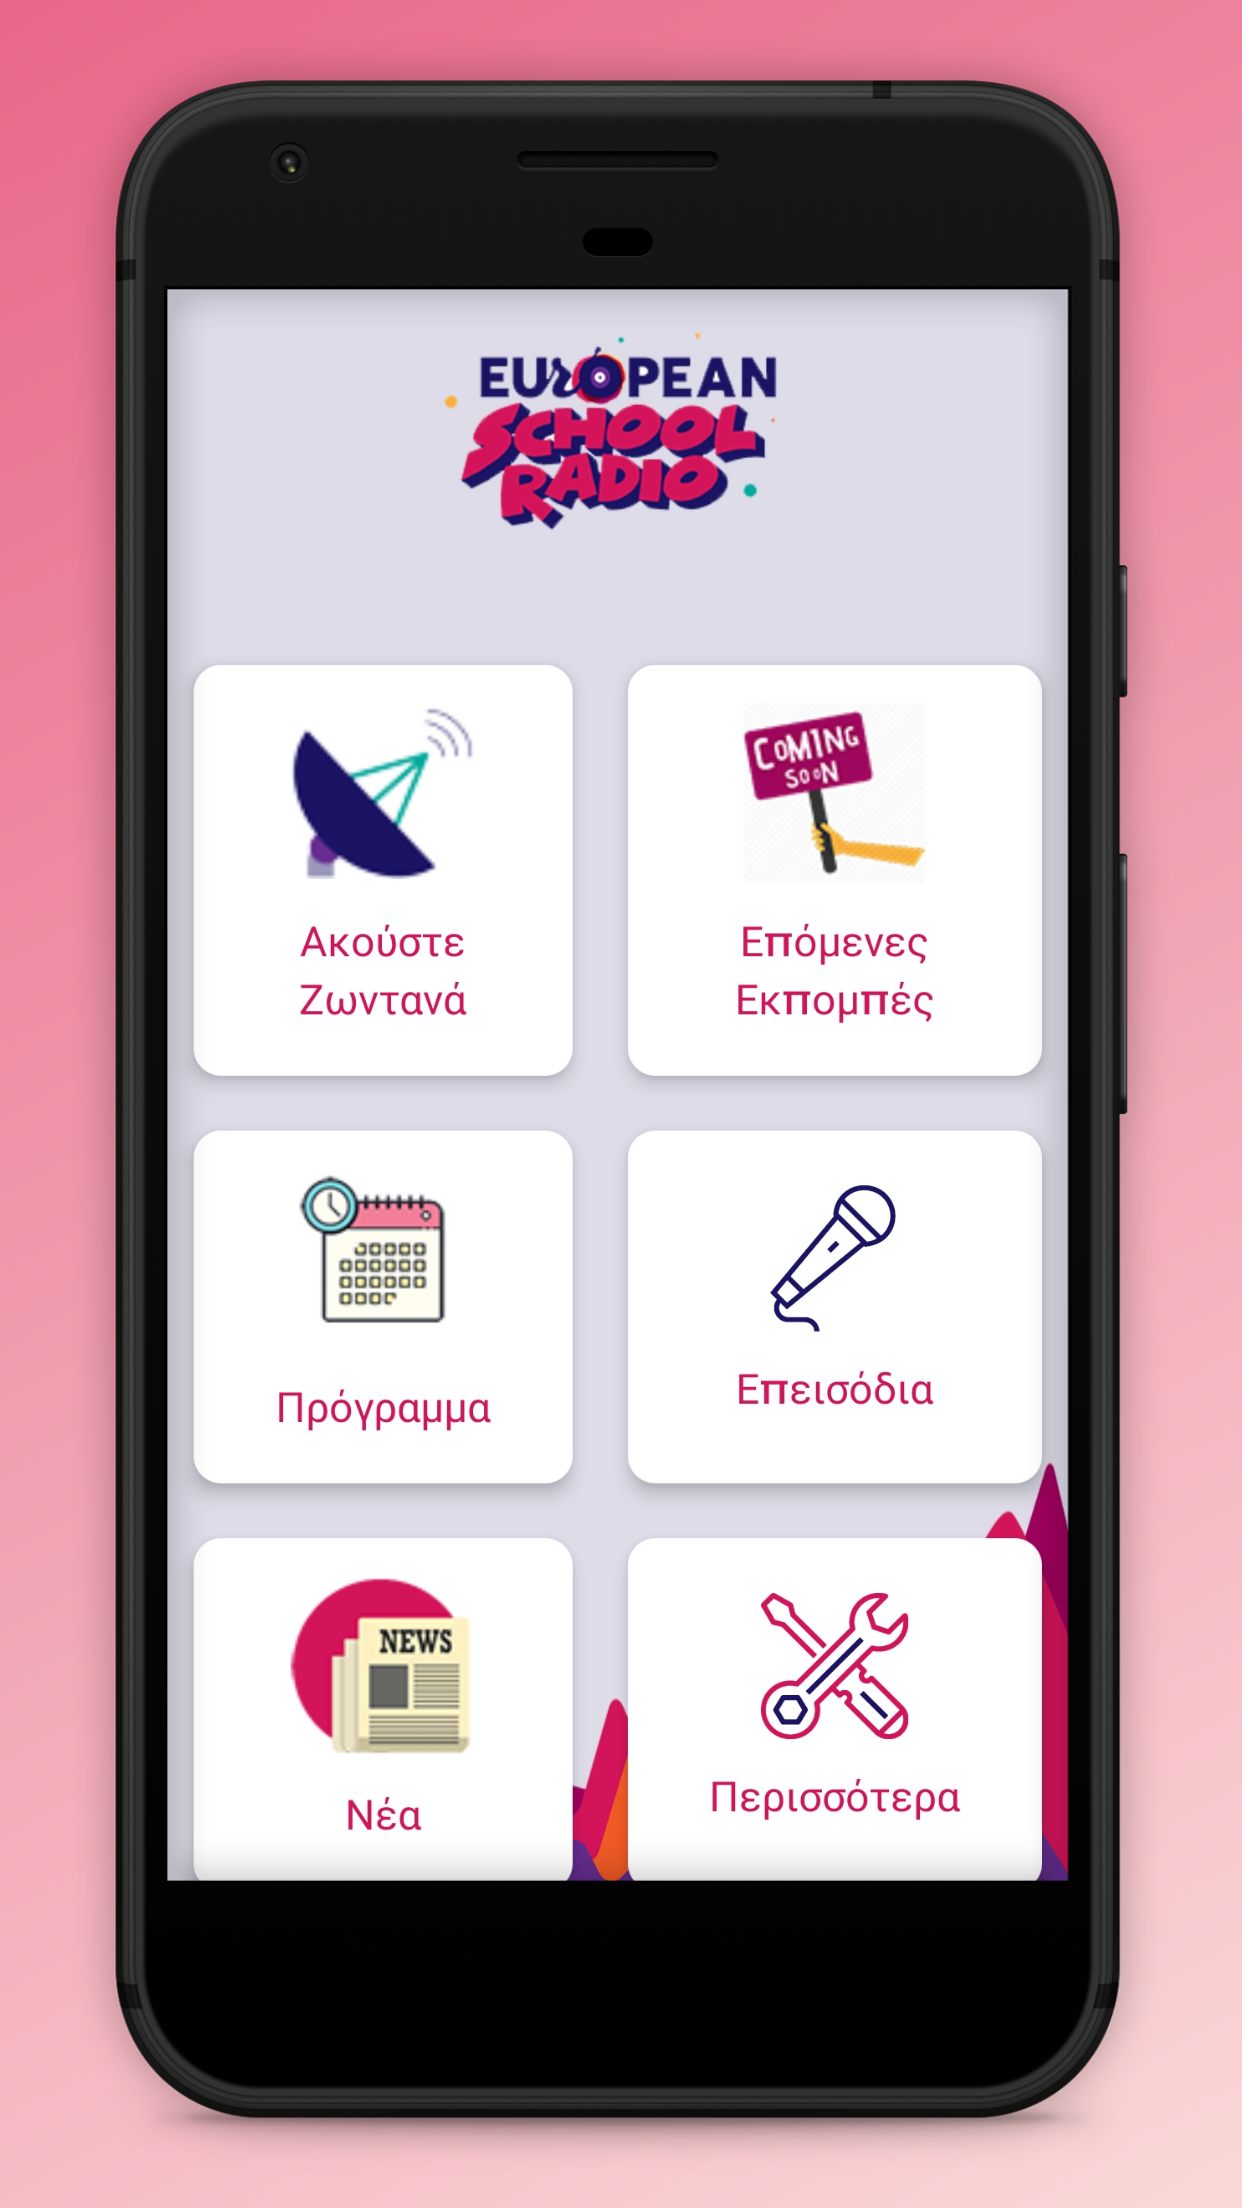
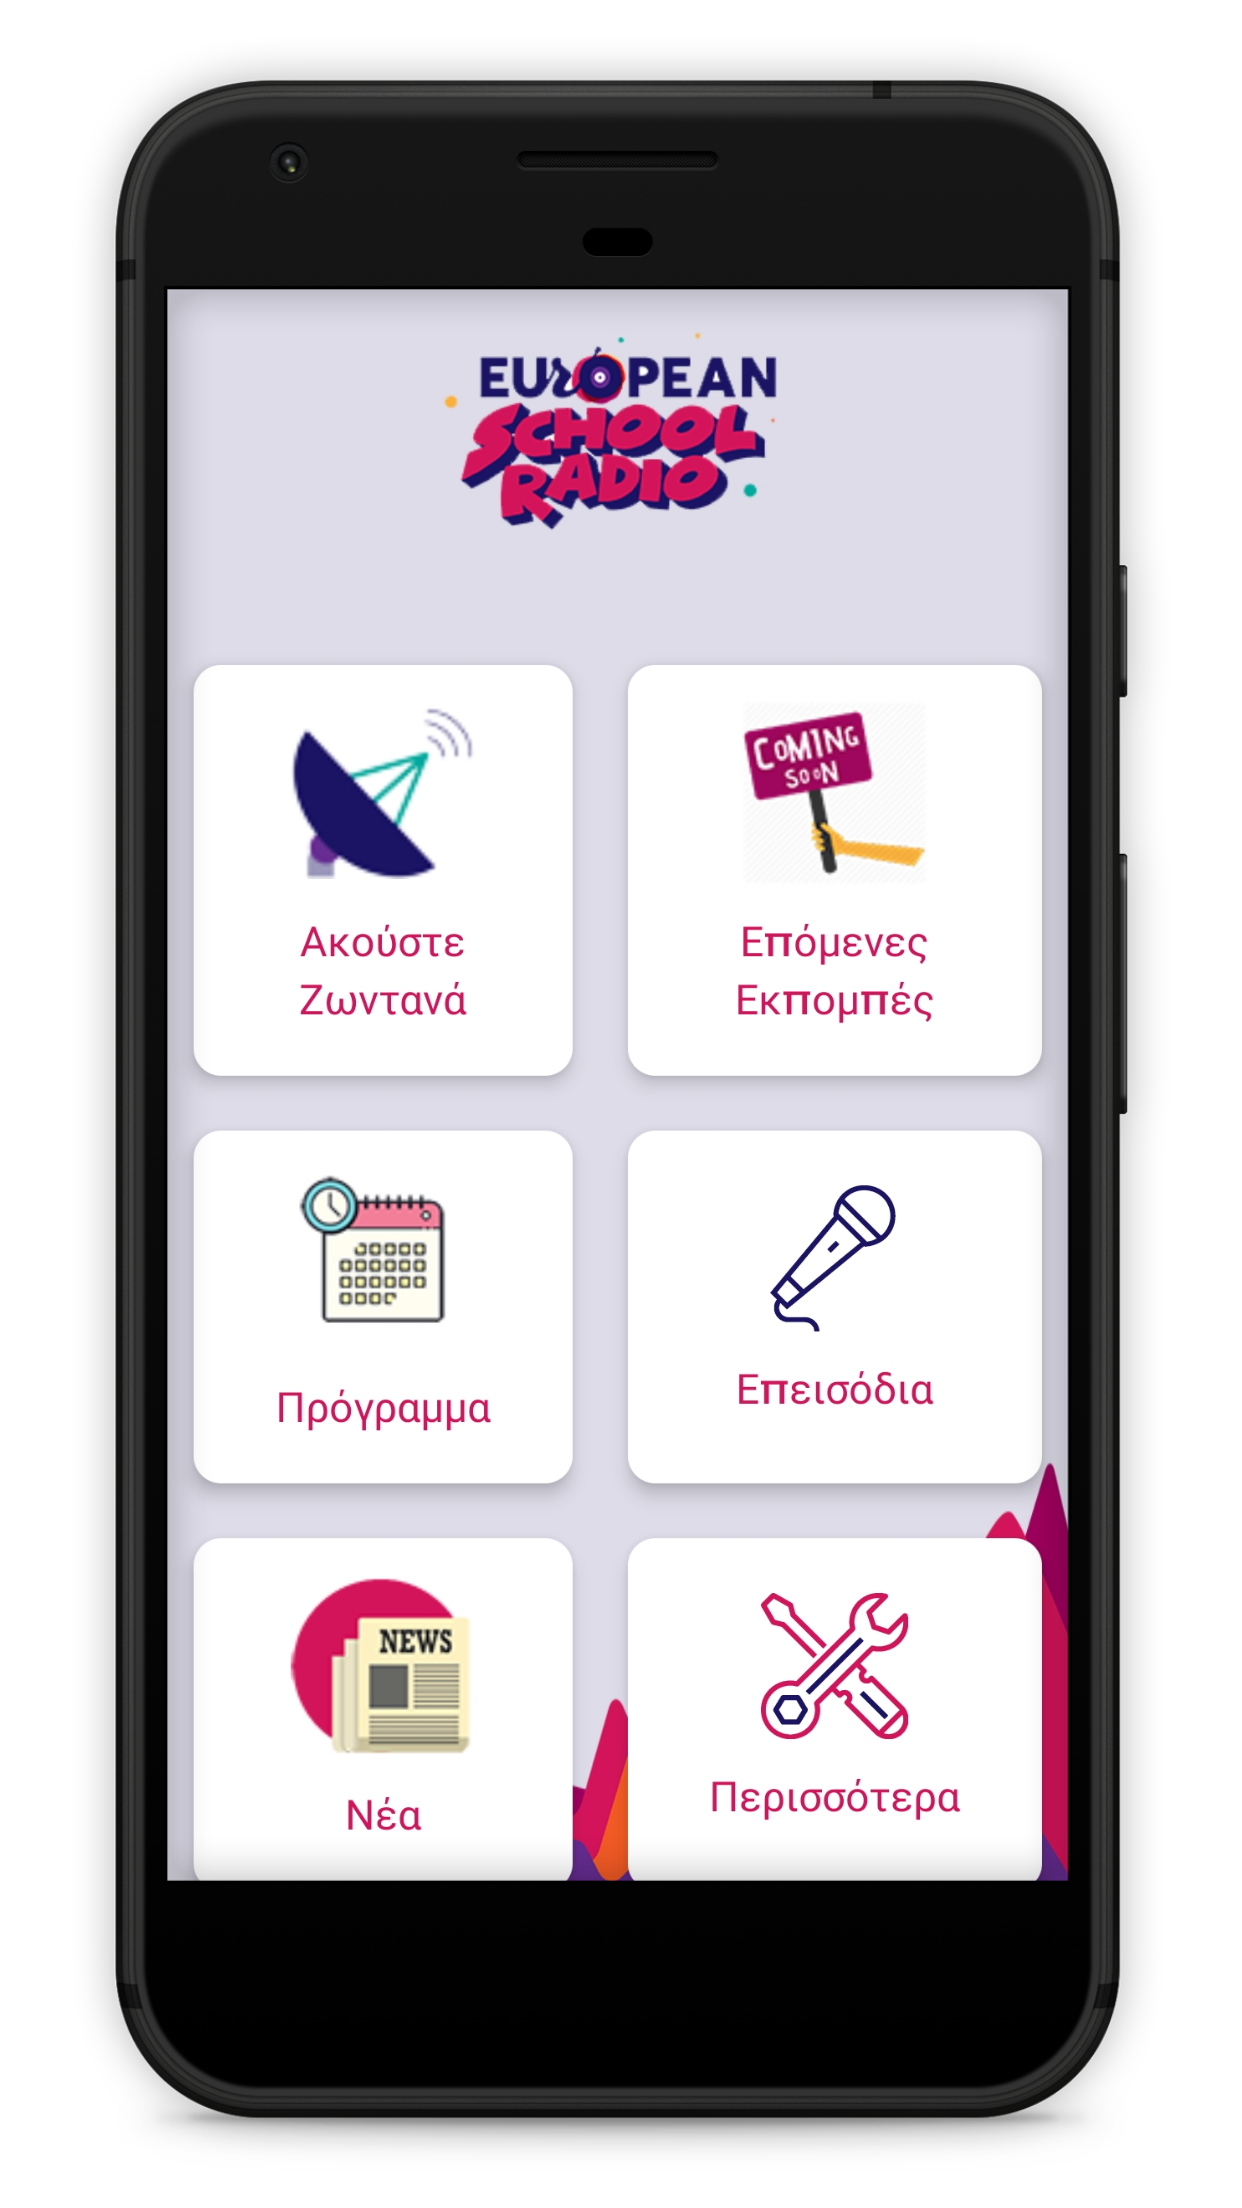
Modal set custom text #10.

Changed region(s): [[0.0, 0.0, 1.0, 1.0]]

diff --git a/gr.html b/gr.html
@@ -218,7 +218,7 @@
             </div>
             <div class="modal-body">
                 <p>Some text in the Modal Body</p>
-                <img src="images/esr_app_screenshot.jpg" style="width:35%;height:auto;display: block;margin-left: auto;margin-right: auto;">
+                <img src="images/esr_app_screenshot.jpg" style="width:35%;height:auto;display: block;margin-left: auto;margin-right: auto;transform: rotate(-20deg);">
                 <p>Some other text...</p>
             </div>
             <div class="modal-footer">
